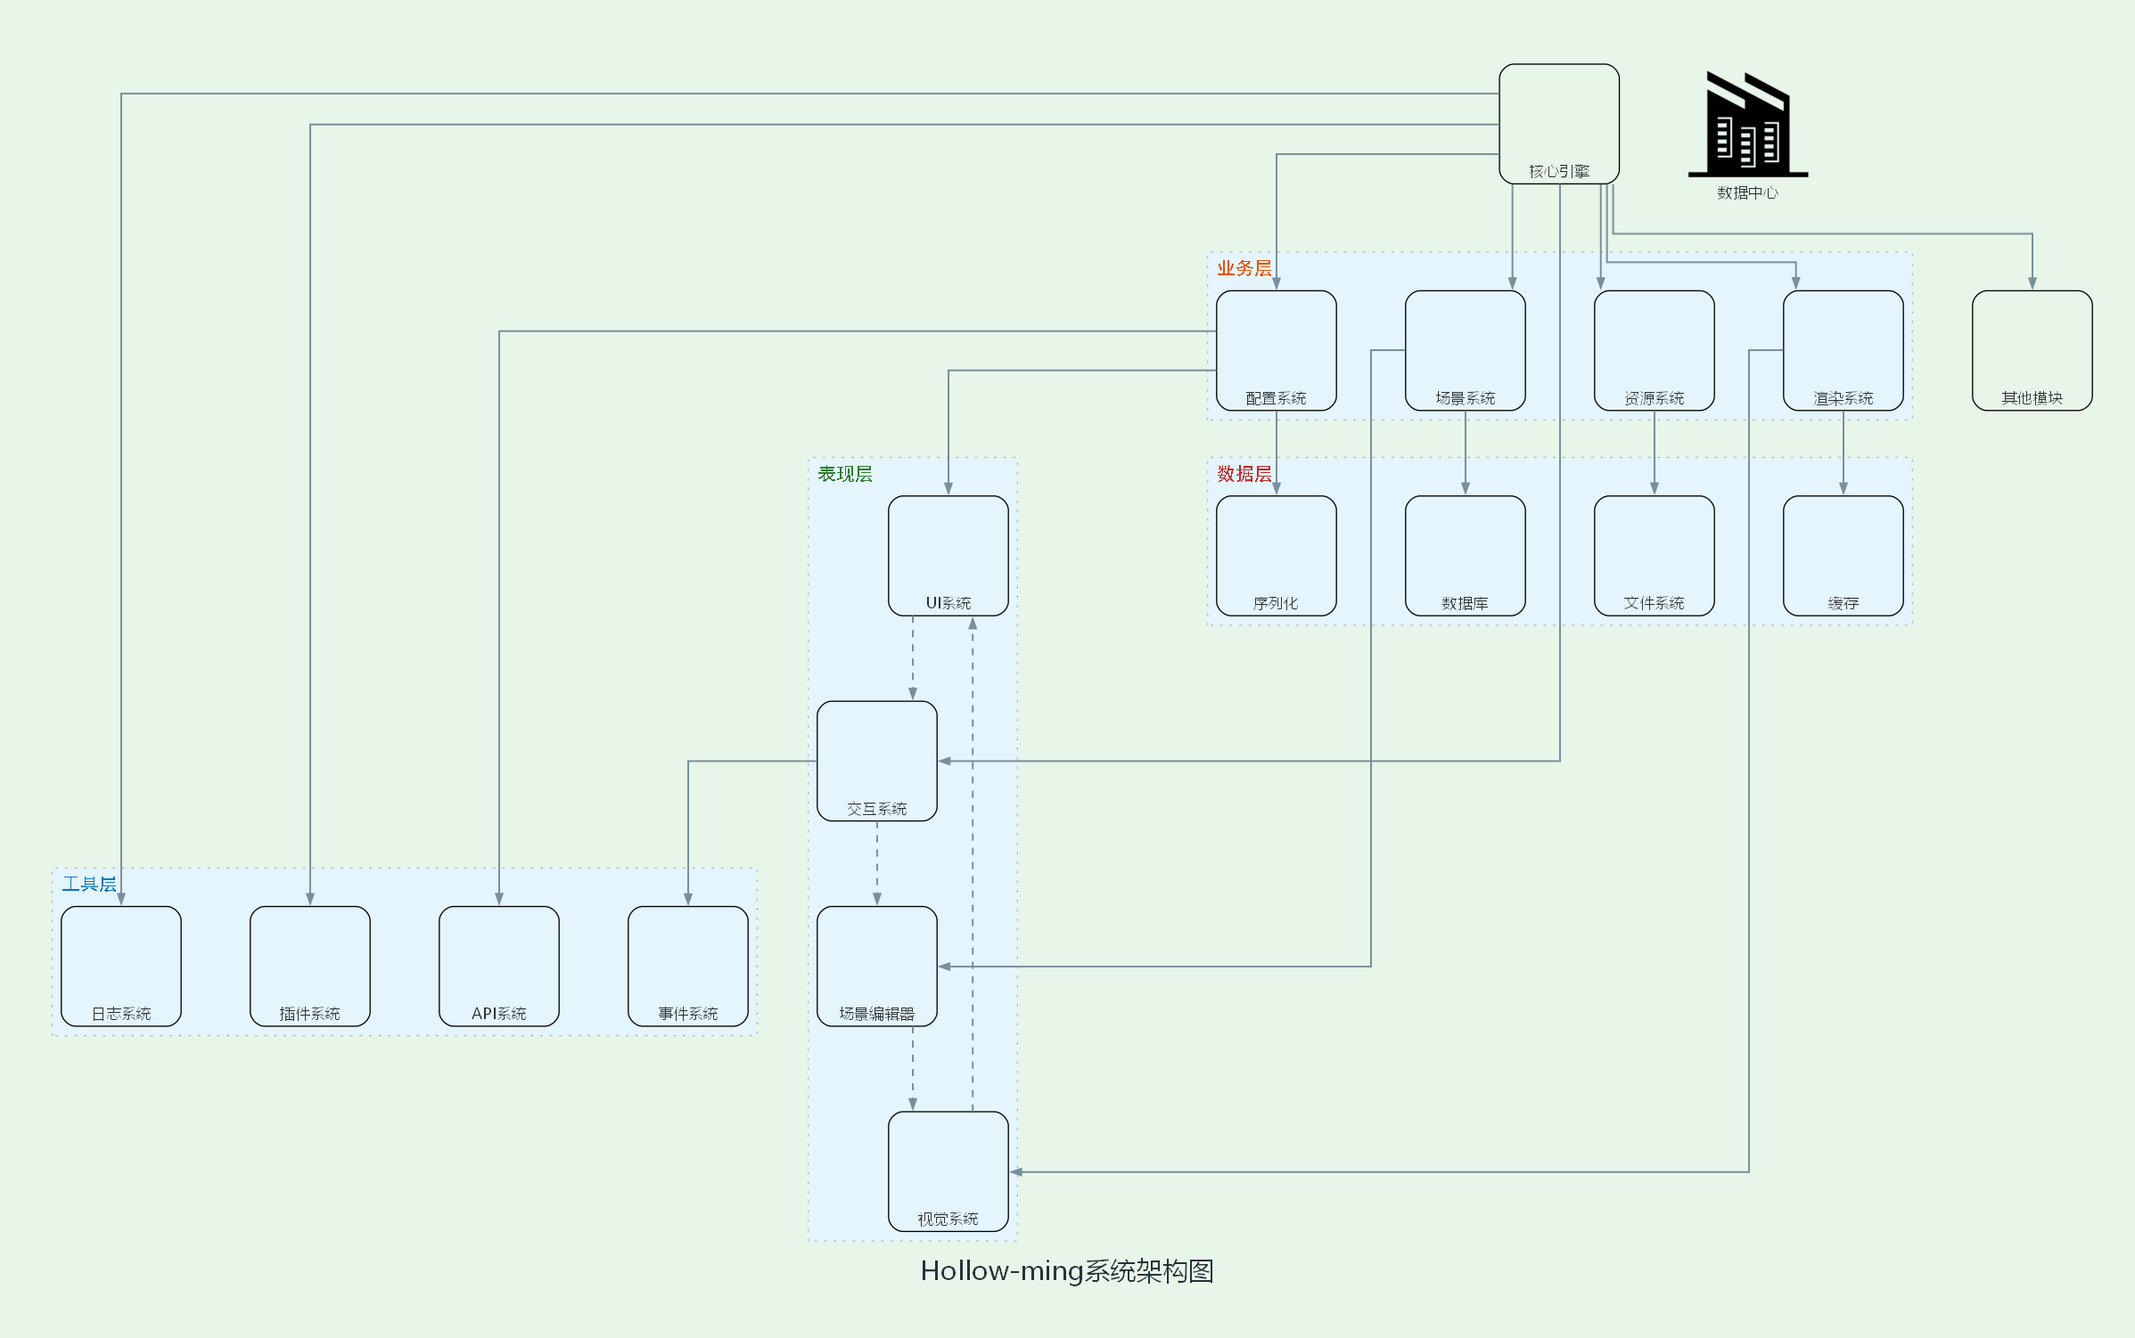
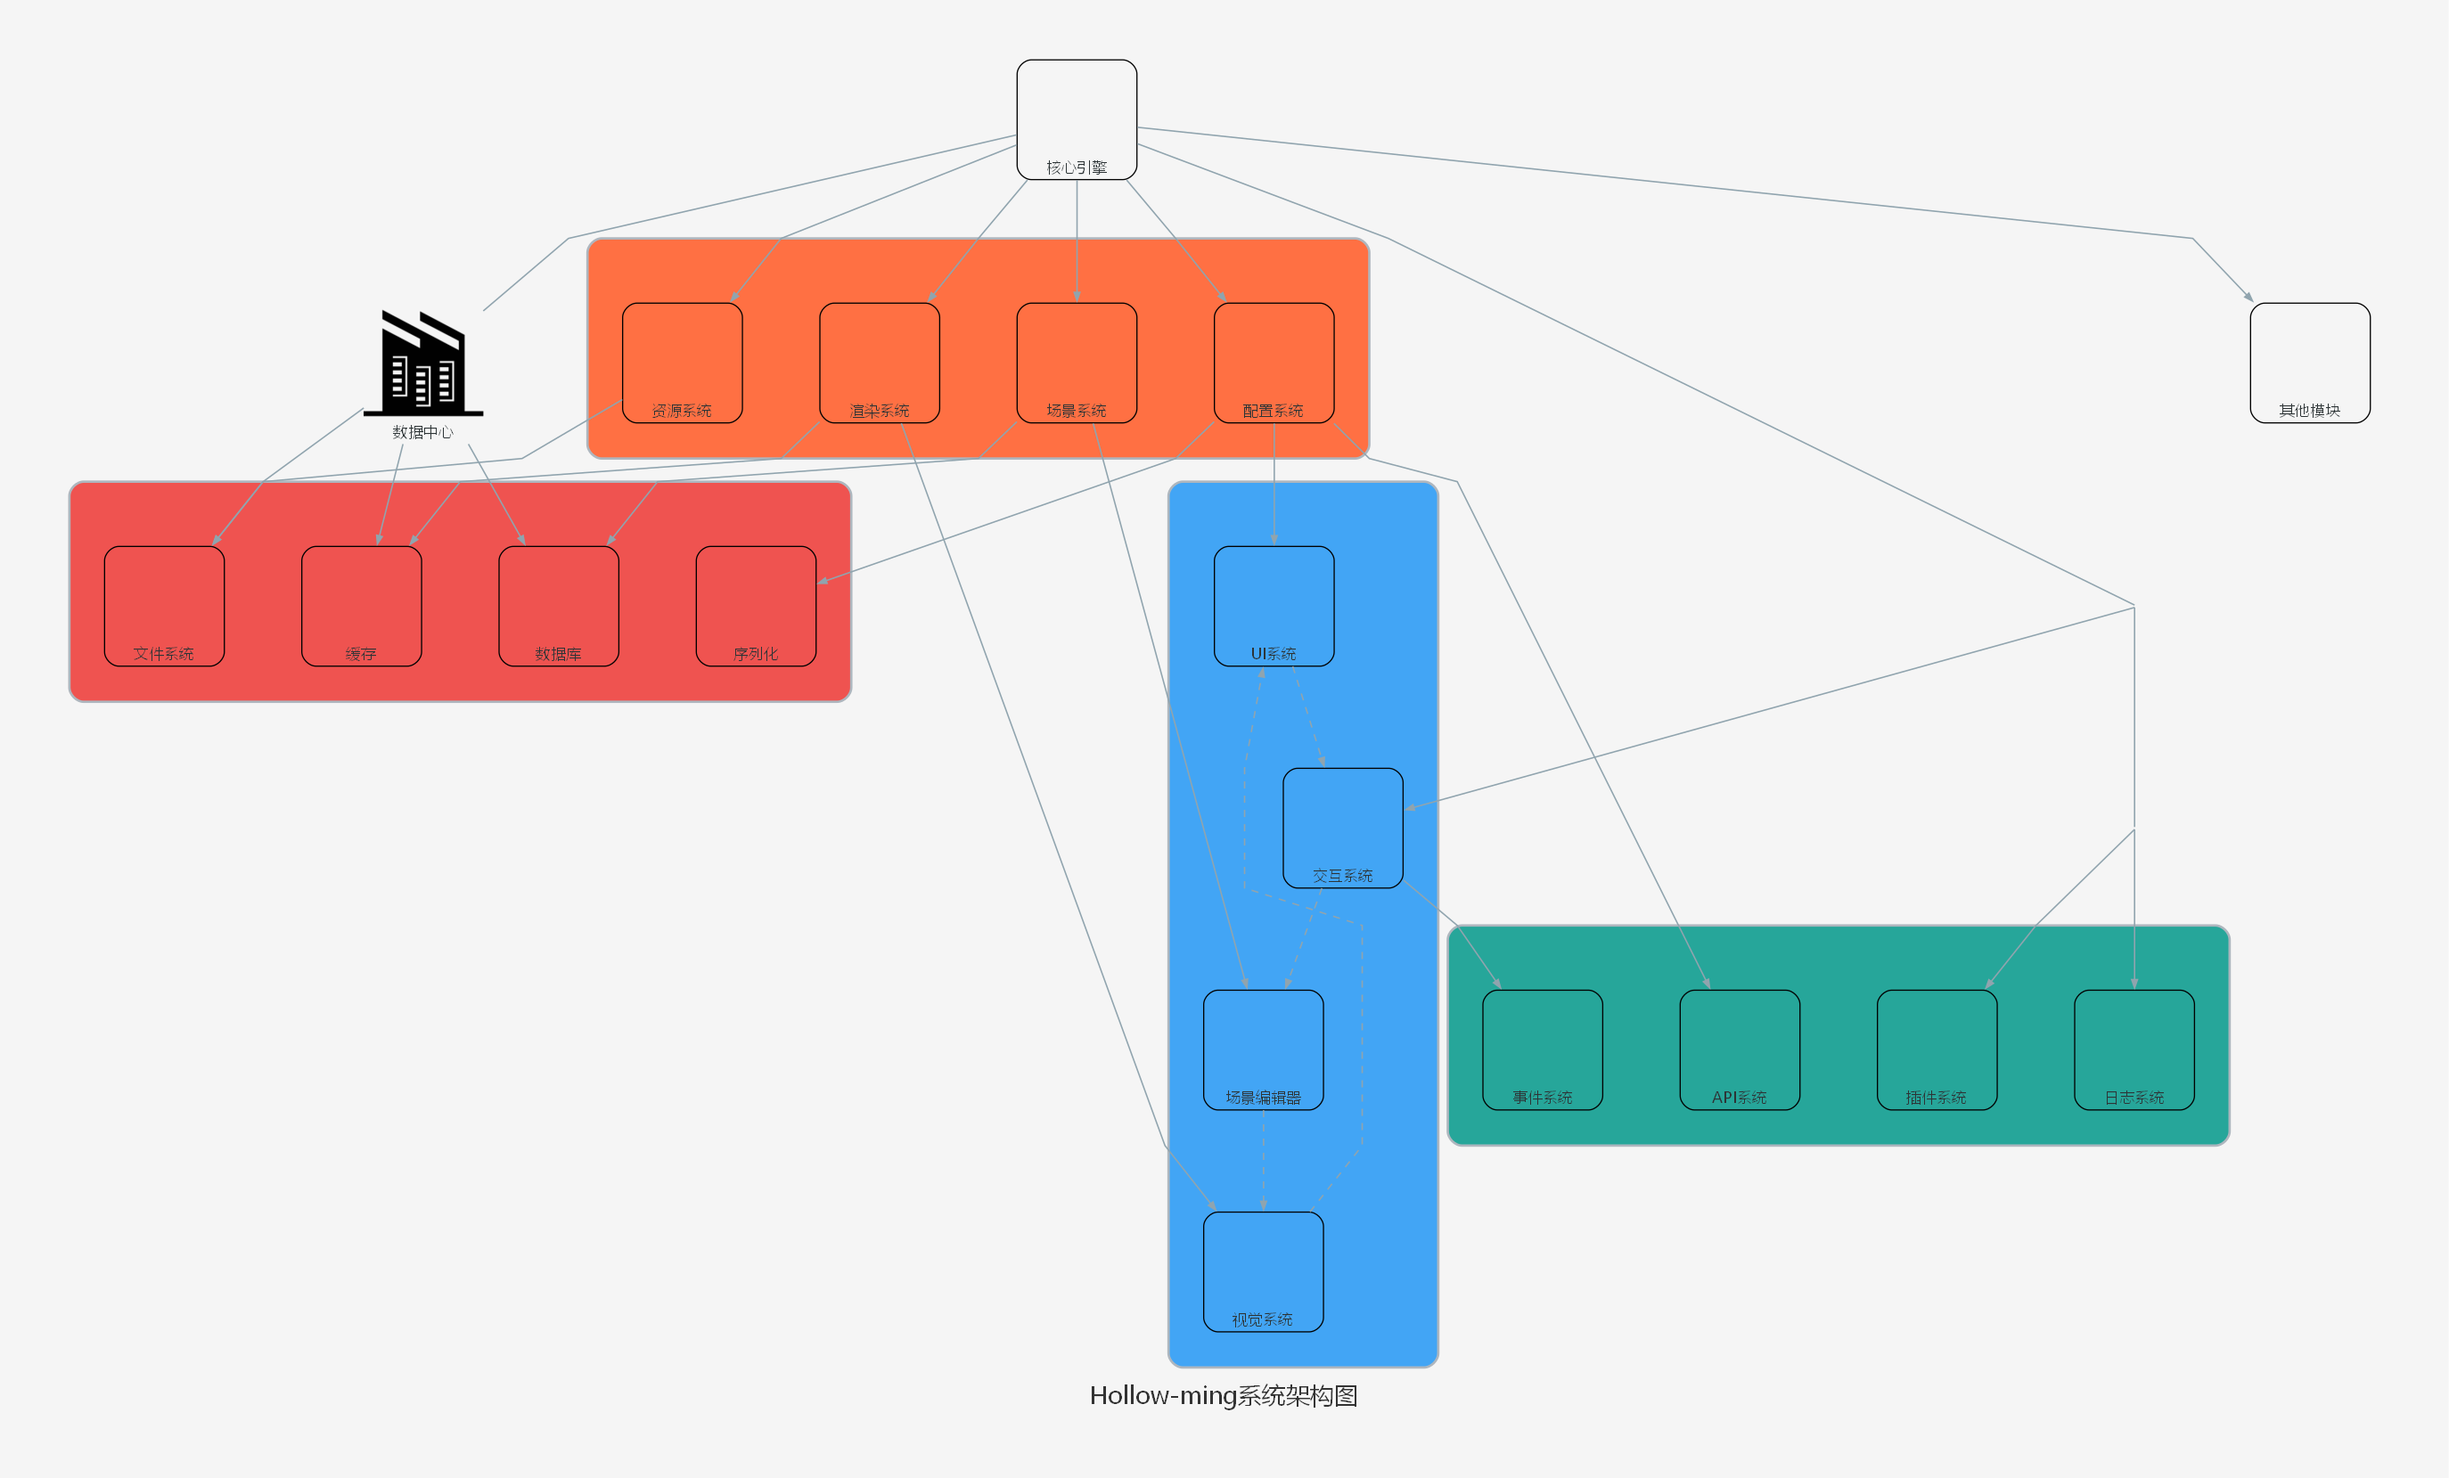
[图表] 优化系统架构图，使用浅蓝色分层背景和方块节点，添加数据中心图标，提高可识别性

diff --git a/Diagrams/Architecture/system_architecture.py b/Diagrams/Architecture/system_architecture.py
@@ -19,6 +19,8 @@ Changed history:
                             2024/04/04: 更新为方形节点带图标，使用更舒适的淡绿色背景;
                             2024/04/04: 修复导入错误，使用本地可用的图标;
                             2024/04/04: 修复节点初始化参数错误;
+                            2024/04/04: 优化模块显示，添加图标，采用浅蓝色分层背景;
+                            2024/04/04: 修复图标初始化错误;
 ----
 """
 
@@ -28,8 +30,8 @@ from diagrams.onprem.database import PostgreSQL, MySQL
 from diagrams.onprem.network import Nginx
 from diagrams.onprem.client import Users
 from diagrams.onprem.workflow import Airflow
-from diagrams.programming.framework import React
-from diagrams.programming.language import Python
+from diagrams.programming.framework import React, Flutter
+from diagrams.programming.language import Python, Go
 from diagrams.generic.storage import Storage
 from diagrams.generic.compute import Rack
 from diagrams.generic.database import SQL
@@ -39,38 +41,61 @@ from diagrams.generic.place import Datacenter
 
 # 创建自定义节点类 - 方形节点带颜色
 class ColorNode(Node):
+    """彩色方块节点，支持自定义颜色"""
+    
     def __init__(self, label, color):
+        """
+        初始化节点
+        
+        Args:
+            label: 节点标签
+            color: 填充颜色
+        """
         super().__init__(label)
+        
+        # 设置节点属性
+        self._attrs["shape"] = "box"
+        self._attrs["style"] = "filled,rounded"
         self._attrs["fillcolor"] = color
-        self._attrs["style"] = "filled"
         self._attrs["fontcolor"] = "#FFFFFF"
-        self._attrs["shape"] = "rect"
-        self._attrs["fontsize"] = "14"
-        self._attrs["width"] = "1.8"
-        self._attrs["height"] = "1.5"
-        self._attrs["margin"] = "0.3"
-        self._attrs["penwidth"] = "2.0"
-        self._attrs["color"] = self._darken_color(color, 20)  # 边框颜色略深
-
-    def _darken_color(self, hex_color, percent):
-        """将颜色加深指定百分比"""
+        self._attrs["fontsize"] = "13"
+        self._attrs["fontname"] = "Microsoft YaHei"
+        self._attrs["margin"] = "0.2"
+        self._attrs["width"] = "1.2"
+        self._attrs["height"] = "0.8"
+        # 边框颜色，稍微深一点
+        self._attrs["color"] = self._adjust_color(color, -40)
+        self._attrs["penwidth"] = "1.5"
+        
+    def _adjust_color(self, hex_color, amount):
+        """
+        调整颜色亮度
+        
+        Args:
+            hex_color: 十六进制颜色值
+            amount: 调整量，正值变亮，负值变暗
+        
+        Returns:
+            str: 调整后的十六进制颜色值
+        """
         h = hex_color.lstrip('#')
         rgb = tuple(int(h[i:i+2], 16) for i in (0, 2, 4))
-        rgb = tuple(max(0, int(c * (100 - percent) / 100)) for c in rgb)
+        rgb = tuple(max(0, min(255, c + amount)) for c in rgb)
         return '#{:02x}{:02x}{:02x}'.format(*rgb)
 
 def generate_diagram():
-    """
-    生成系统架构图 - 使用分层结构
-    """
-    # 颜色方案 - 更柔和的色彩
+    """生成系统架构图"""
+    
+    # 颜色方案
     colors = {
-        'core': '#6200ea',          # 深紫色 - 核心
-        'main_meals': '#e65100',    # 深橙色 - 业务层
-        'snacks': '#2e7d32',        # 深绿色 - 表现层
-        'drinking': '#0277bd',      # 深蓝色 - 工具层
-        'medication': '#c62828',    # 深红色 - 数据层
-        'others': '#455a64',        # 深灰蓝色 - 其他
+        'core': '#7e57c2',          # 紫色 - 核心层
+        'business': '#ff7043',      # 橙色 - 业务层
+        'presentation': '#42a5f5',  # 蓝色 - 表现层
+        'tool': '#26a69a',          # 青色 - 工具层
+        'data': '#ef5350',          # 红色 - 数据层
+        'module': '#78909c',        # 灰色 - 其他模块
+        'cluster_bg': '#e3f2fd',    # 浅蓝色 - 分组背景
+        'datacenter': '#333333',    # 深灰色 - 数据中心
     }
     
     # 开始创建架构图
@@ -79,64 +104,109 @@ def generate_diagram():
         filename="system_architecture",
         outformat="png",
         show=False,
-        direction="TB",  # 自上而下的布局
+        direction="TB",
         graph_attr={
-            "bgcolor": "#e8f5e9",   # 更柔和的淡绿色背景
-            "fontcolor": "#263238",
+            "bgcolor": "#f5f5f5",       # 浅灰色背景
+            "fontcolor": "#333333",
             "fontname": "Microsoft YaHei",
-            "fontsize": "22",
-            "overlap": "false",
-            "splines": "ortho",      # 正交连线
-            "nodesep": "0.8",
-            "ranksep": "1.0",
-            "pad": "0.5", 
-            "concentrate": "true",   # 合并边
+            "fontsize": "20",
+            "ranksep": "1.2",
+            "nodesep": "0.9",
+            "pad": "0.7",
+            "splines": "polyline",      # 使用折线连接
+            "concentrate": "true",
         },
         node_attr={
             "fontname": "Microsoft YaHei",
         },
         edge_attr={
-            "color": "#78909c",      # 更柔和的连线颜色
-            "penwidth": "1.5",
-            "arrowsize": "0.8",
+            "color": "#90a4ae",
+            "penwidth": "1.2",
+            "arrowsize": "0.7",
         }
     ):
-        # 创建核心节点与各种系统节点
+        # 创建核心节点
         core_engine = ColorNode("核心引擎", colors['core'])
         
-        # 使用不同的图标类型作为节点
+        # 创建数据中心节点
         datacenter = Datacenter("数据中心")
+        datacenter._attrs["fillcolor"] = colors['datacenter']
+        datacenter._attrs["fontcolor"] = "#FFFFFF" 
+        datacenter._attrs["style"] = "filled"
+
+        # ==== 业务层 ====
+        with Cluster("业务层", graph_attr={
+            "bgcolor": colors['cluster_bg'],
+            "style": "filled,rounded",
+            "color": colors['business'],
+            "fontcolor": colors['business'],
+            "fontsize": "16",
+            "margin": "30",
+            "penwidth": "2.0",
+            "label_loc": "t", # 顶部放置标签
+        }):
+            config_system = ColorNode("配置系统", colors['business'])
+            render_system = ColorNode("渲染系统", colors['business'])
+            resource_system = ColorNode("资源系统", colors['business'])
+            scene_system = ColorNode("场景系统", colors['business'])
         
-        # 创建分层结构
-        with Cluster("业务层", graph_attr={"fontcolor": colors['main_meals'], "style": "dotted", "color": colors['main_meals'], "fontsize": "16"}):
-            scene_system = ColorNode("场景系统", colors['main_meals'])
-            render_system = ColorNode("渲染系统", colors['main_meals'])
-            resource_system = ColorNode("资源系统", colors['main_meals'])
-            config_system = ColorNode("配置系统", colors['main_meals'])
+        # ==== 表现层 ====
+        with Cluster("表现层", graph_attr={
+            "bgcolor": colors['cluster_bg'],
+            "style": "filled,rounded",
+            "color": colors['presentation'],
+            "fontcolor": colors['presentation'],
+            "fontsize": "16",
+            "margin": "30",
+            "penwidth": "2.0",
+            "label_loc": "t",
+        }):
+            ui_system = ColorNode("UI系统", colors['presentation'])
+            interaction_system = ColorNode("交互系统", colors['presentation'])
+            scene_editor = ColorNode("场景编辑器", colors['presentation'])
+            visual_system = ColorNode("视觉系统", colors['presentation'])
         
-        with Cluster("表现层", graph_attr={"fontcolor": colors['snacks'], "style": "dotted", "color": colors['snacks'], "fontsize": "16"}):
-            ui_system = ColorNode("UI系统", colors['snacks'])
-            interaction_system = ColorNode("交互系统", colors['snacks'])
-            scene_editor = ColorNode("场景编辑器", colors['snacks'])
-            visual_system = ColorNode("视觉系统", colors['snacks'])
+        # ==== 数据层 ====
+        with Cluster("数据层", graph_attr={
+            "bgcolor": colors['cluster_bg'],
+            "style": "filled,rounded",
+            "color": colors['data'],
+            "fontcolor": colors['data'],
+            "fontsize": "16",
+            "margin": "30",
+            "penwidth": "2.0",
+            "label_loc": "t",
+        }):
+            file_system = ColorNode("文件系统", colors['data'])
+            database = ColorNode("数据库", colors['data'])
+            cache = ColorNode("缓存", colors['data'])
+            serialization = ColorNode("序列化", colors['data'])
         
-        with Cluster("工具层", graph_attr={"fontcolor": colors['drinking'], "style": "dotted", "color": colors['drinking'], "fontsize": "16"}):
-            plugin_system = ColorNode("插件系统", colors['drinking'])
-            event_system = ColorNode("事件系统", colors['drinking'])
-            log_system = ColorNode("日志系统", colors['drinking'])
-            api_system = ColorNode("API系统", colors['drinking'])
+        # ==== 工具层 ====
+        with Cluster("工具层", graph_attr={
+            "bgcolor": colors['cluster_bg'],
+            "style": "filled,rounded",
+            "color": colors['tool'],
+            "fontcolor": colors['tool'],
+            "fontsize": "16",
+            "margin": "30",
+            "penwidth": "2.0",
+            "label_loc": "t",
+        }):
+            plugin_system = ColorNode("插件系统", colors['tool'])
+            event_system = ColorNode("事件系统", colors['tool'])
+            log_system = ColorNode("日志系统", colors['tool'])
+            api_system = ColorNode("API系统", colors['tool'])
         
-        with Cluster("数据层", graph_attr={"fontcolor": colors['medication'], "style": "dotted", "color": colors['medication'], "fontsize": "16"}):
-            file_system = ColorNode("文件系统", colors['medication'])
-            database = ColorNode("数据库", colors['medication'])
-            cache = ColorNode("缓存", colors['medication'])
-            serialization = ColorNode("序列化", colors['medication'])
-        
-        # 其他节点
-        others = ColorNode("其他模块", colors['others'])
+        # 其他模块
+        with Cluster("", graph_attr={"style": "invis"}):
+            others = ColorNode("其他模块", colors['module'])
         
         # ===== 创建连接 =====
-        # 从核心节点连接到各层
+        # 核心引擎和数据中心
+        core_engine - datacenter
+        
+        # 核心引擎连接到各层
         core_engine >> scene_system
         core_engine >> render_system
         core_engine >> resource_system
@@ -147,6 +217,8 @@ def generate_diagram():
         scene_system >> scene_editor
         render_system >> visual_system
         config_system >> ui_system
+        
+        # 核心连接交互系统
         core_engine >> interaction_system
         
         # 业务层连接到数据层
@@ -158,7 +230,11 @@ def generate_diagram():
         # 核心连接到工具层
         core_engine >> plugin_system
         core_engine >> log_system
+        
+        # 交互系统连接事件系统
         interaction_system >> event_system
+        
+        # 配置系统连接API系统
         config_system >> api_system
         
         # 添加表现层内部连接（用虚线）
@@ -166,6 +242,11 @@ def generate_diagram():
         interaction_system >> Edge(style="dashed") >> scene_editor
         scene_editor >> Edge(style="dashed") >> visual_system
         visual_system >> Edge(style="dashed") >> ui_system
+        
+        # 数据中心与数据层连接
+        datacenter >> database
+        datacenter >> cache
+        datacenter >> file_system
 
 if __name__ == '__main__':
     generate_diagram() 
